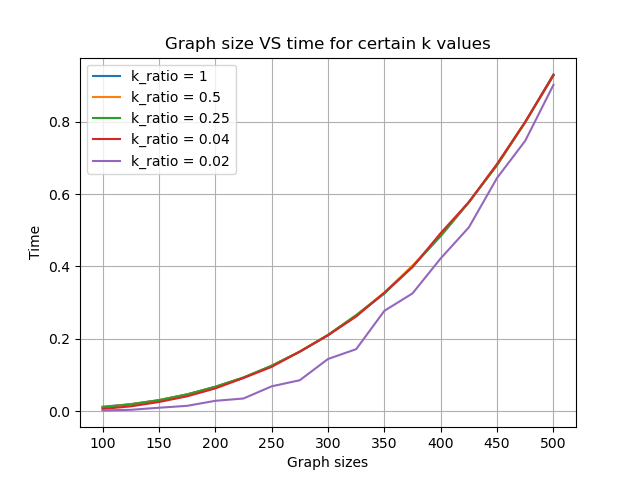
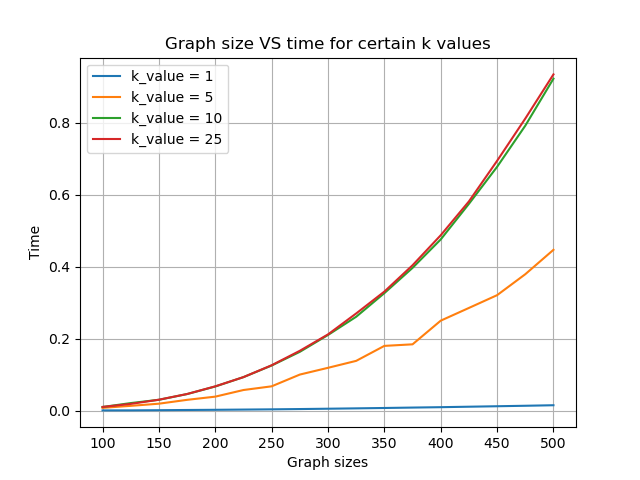
part 1 done

diff --git a/Part 1/Experiment_Suite_1.py b/Part 1/Experiment_Suite_1.py
@@ -29,12 +29,12 @@ def experiment1(G_sizes, k_ratios, source, num_trials, upper):
     for size in G_sizes:
         g = create_random_complete_graph(size, upper)
         for ratio in k_ratios:
-            k_value = int(size * ratio)
+            k_value = ratio
             avg_time = experiment_helper(g, k_value, source, num_trials)
             results[ratio].append(avg_time)
     
     for ratio in k_ratios:
-        plt.plot(G_sizes, results[ratio], label=f'k_ratio = {ratio}')
+        plt.plot(G_sizes, results[ratio], label=f'k_value = {ratio}')
     
     plt.xlabel('Graph sizes')
     plt.ylabel('Time')
@@ -46,7 +46,7 @@ def experiment1(G_sizes, k_ratios, source, num_trials, upper):
 G_sizes = []
 for i in range(100, 525, 25):
     G_sizes.append(i)
-k_ratios = [1, 1/2, 1/4, 1/25, 1/50]
+k_ratios = [1, 5, 10, 25]
 source = 0
 num_trials = 10
 upper = 1000
@@ -70,7 +70,7 @@ def experiment2_helper(G, source, k_ratios, numtrials):
     for ratio in k_ratios:
         relative_error = 0
         for i in range(numtrials):
-            k = int(graph_size * ratio)
+            k = ratio
             dist_approx = dijkstra_approx(G, source, k)
             total_distance_approx = total_dist(dist_approx)
 
@@ -89,7 +89,7 @@ def experiment2(G_sizes, k_ratios, source, upper, numtrials):
             results[ratio].append(accuracies[ratio])
             
     for ratio in k_ratios:
-        plt.plot(G_sizes, results[ratio], label=f'k_ratio = {ratio}')
+        plt.plot(G_sizes, results[ratio], label=f'k_value = {ratio}')
     plt.title('Accuracy vs Graph Size for Different k Ratios')
     plt.xlabel('Graph Size')
     plt.ylabel('Accuracy')
@@ -99,9 +99,9 @@ def experiment2(G_sizes, k_ratios, source, upper, numtrials):
     
 
 G_sizes2 = []
-for i in range(100, 450, 25):
+for i in range(100, 450, 50):
     G_sizes2.append(i)
-k_ratios2 = [1, 1/2, 1/4, 1/25, 1/50]
+k_ratios2 = [1, 2, 5, 10, 15]
 source2 = 0
 num_trials2 = 25
 upper2 = 1000
@@ -188,7 +188,7 @@ def experiment4_helper(G, source, k_ratios, numtrials):
     for ratio in k_ratios:
         relative_error = 0
         for i in range(numtrials):
-            k = int(graph_size * ratio)
+            k = ratio
             dist_approx = dijkstra_approx(G, source, k)
             total_distance_approx = total_dist(dist_approx)
 
@@ -219,7 +219,7 @@ def experiment4(G_sizes, k_ratios, source, upper, numtrials, probability):
 G_sizes4 = []
 for i in range(100, 450, 50):
     G_sizes4.append(i)
-k_ratios4 = [1, 1/2, 1/4, 1/25, 1/50]
+k_ratios4 = [1, 2, 5, 10, 15]
 source4 = 0
 num_trials4 = 25
 upper4 = 1000
